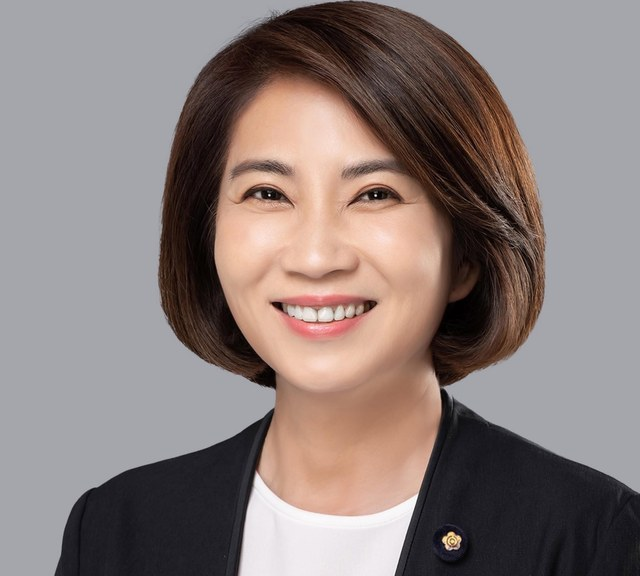
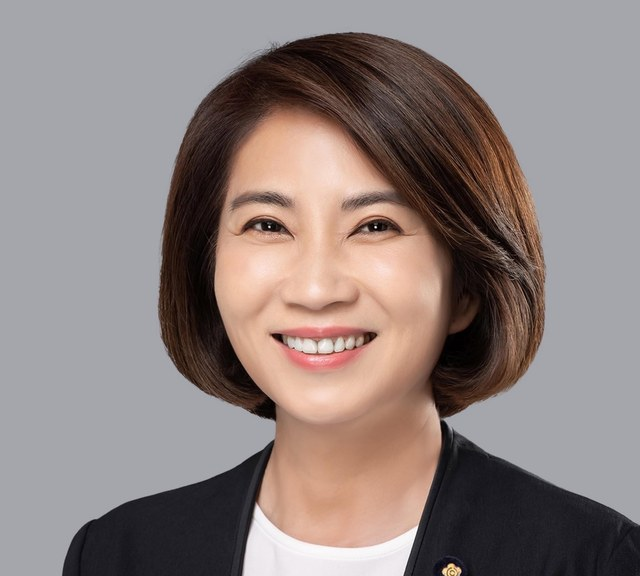
客家選情 3D 地圖：全部候選人照片檢查頭頂留白，22 張向下移動避免切到頭髮
逐張檢視 45 張的髮頂位置，髮頂貼邊或被切的 22 張再向下移動 6–12px（以卡片約 162px 寬換算），
手機照片框比例由 1:0.74 加高為 1:0.82，避免下移後下巴被切。

diff --git a/hakka-election-3d/index.html b/hakka-election-3d/index.html
@@ -212,7 +212,7 @@
     body.panel-open #hud p,body.panel-open #hud .kicker{display:none}
     body.panel-open #hud h1{font-size:20px}
     /* 手機：候選人卡片壓縮，讓半屏抽屜一開就能看到姓名、得票與黨籍 */
-    .cand .art{aspect-ratio:1/0.74}
+    .cand .art{aspect-ratio:1/0.82}
     .cand .art img.photo{object-position:center top}
     .cand .nm{font-size:19px;margin-top:4px}
     .cand .got{font-size:12.5px;margin:1px 0}
